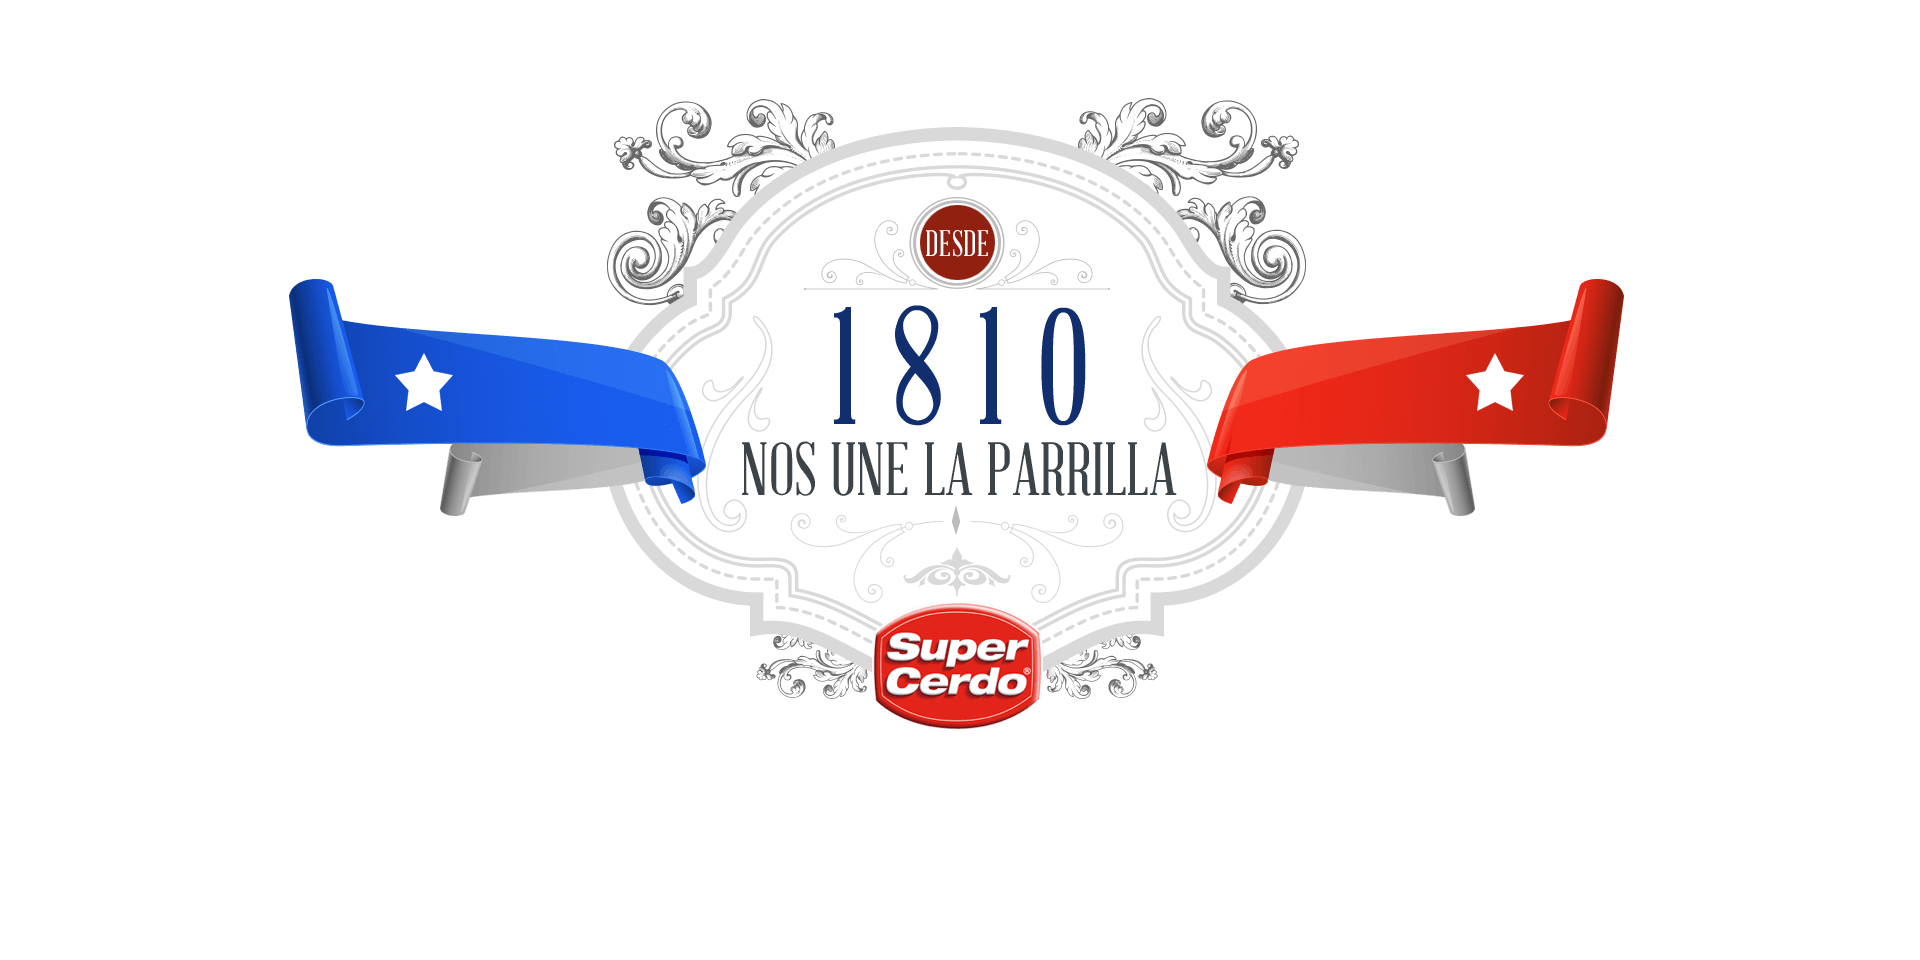
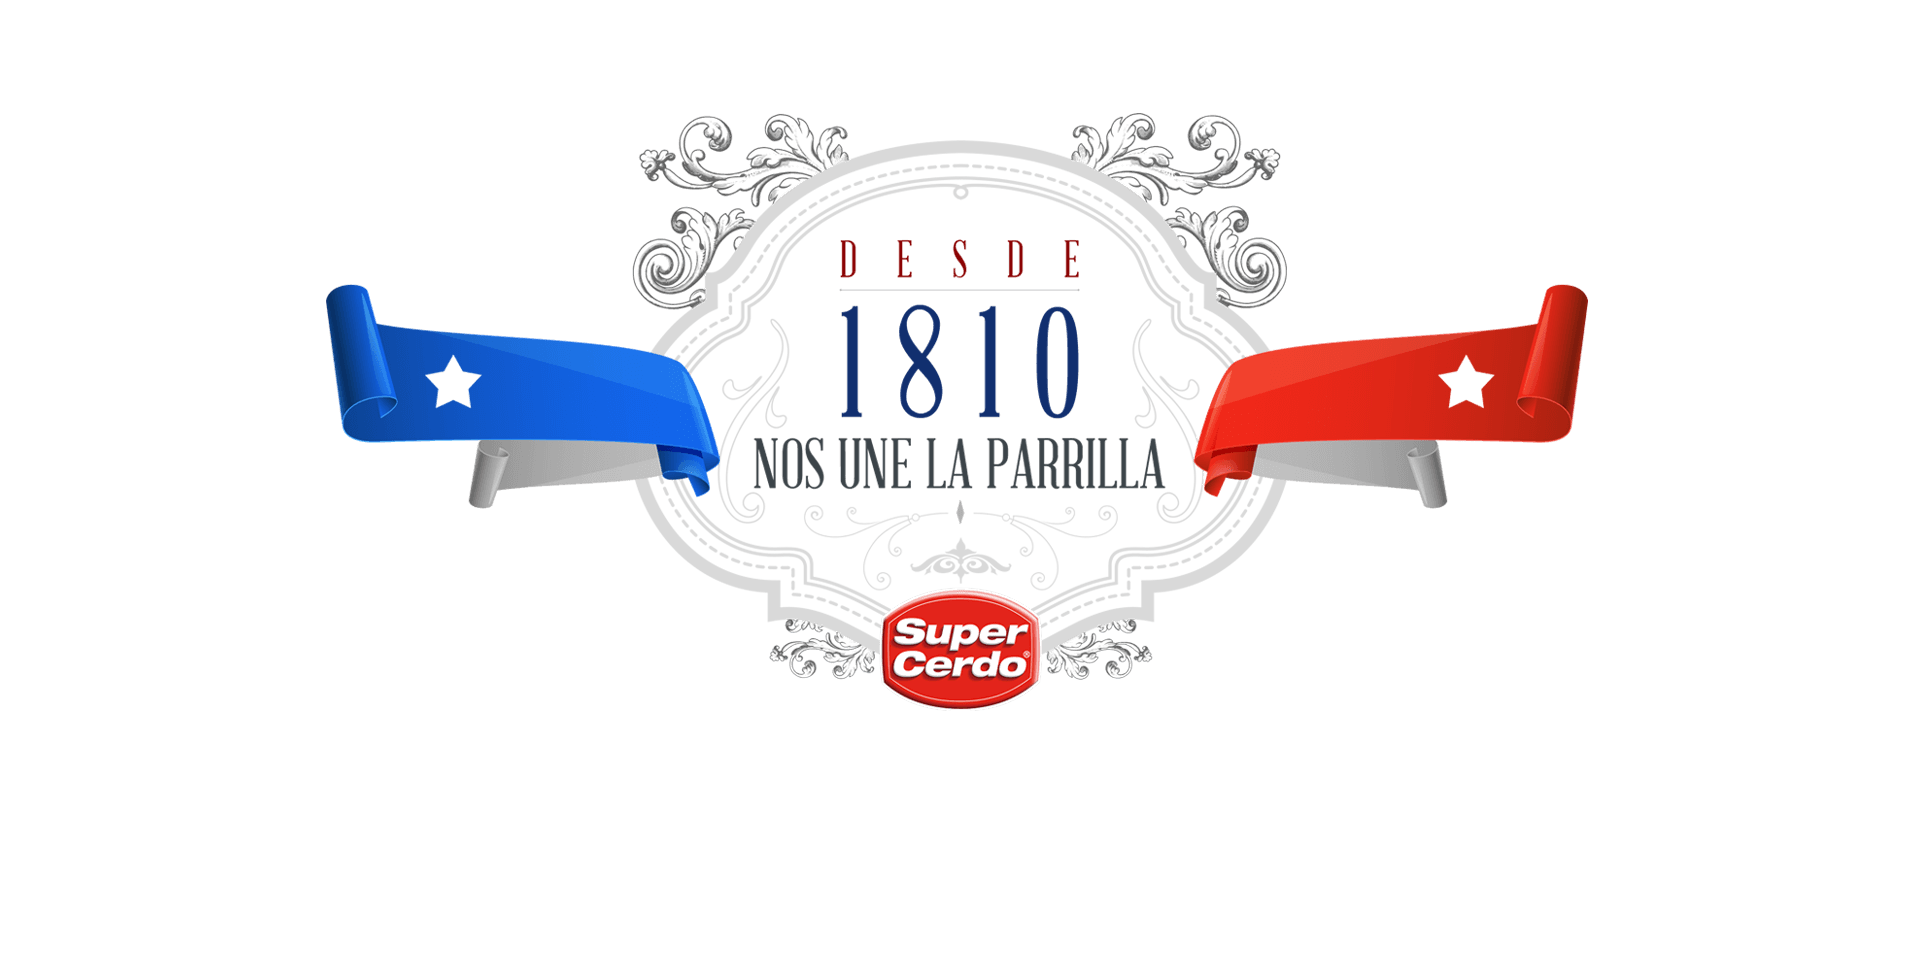
FIXES CSS

Changed region(s): [[0.125, 0.0938, 0.8438, 0.7812]]

diff --git a/app/assets/stylesheets/felicidades.css b/app/assets/stylesheets/felicidades.css
@@ -15,7 +15,7 @@
 
 .vcenter_full {
     min-height: 100%;
-    min-height: 80vh;
+    min-height: 90vh;
     display: flex;
     align-items: center;
     justify-content: center;
@@ -78,8 +78,9 @@
         left: 22%;
     }
     .felicidades_img {
-        margin-top: 4% !important;
+        margin-top: 10px !important;
         width: 275px !important;
+        margin-bottom: 20px;
     }
 }
 
@@ -90,7 +91,8 @@
         left: 19%;
     }
     .felicidades_img {
-        margin-top: 4% !important;
-        width: 250px !important;
+        margin-top: 10px !important;
+        width: 275px !important;
+        margin-bottom: 20px;
     }
 }
